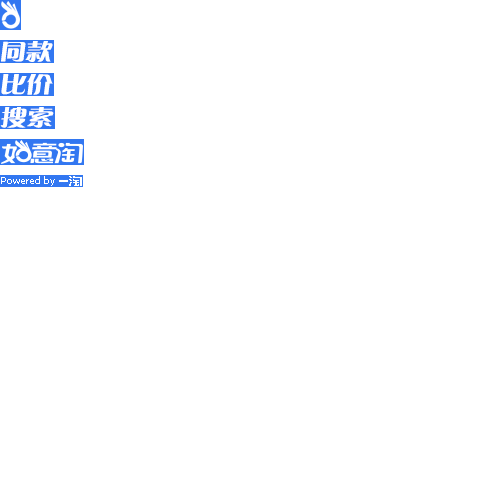
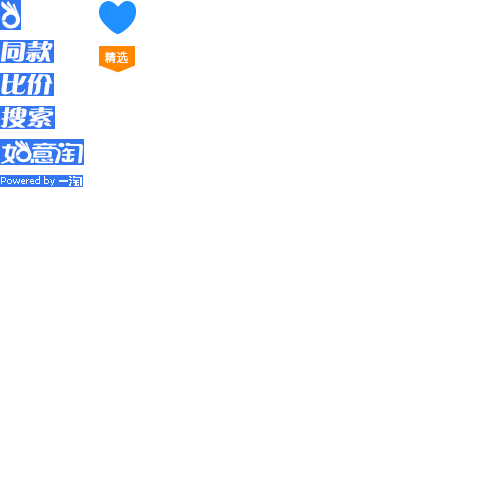
收藏

Changed region(s): [[0.18, 0.0, 0.27, 0.15]]

diff --git a/ruyi/price.html b/ruyi/price.html
@@ -246,34 +246,6 @@
 		  /*-background: url(%chrome-extension%assets/images/products/more-8bit.png) no-repeat center center;*/
 		}
 
-		.ruyitao-selector-prefix-ivy-home-link {
-		  float: left;
-		  height: 100%;
-		  width: 110px;
-		  padding-top: 51px;
-		  color: #0c96df;
-		  font-size: 12px;
-		  text-align: center;
-		  background: url(%chrome-extension%assets/images/heart-blue.png) no-repeat center 19px;
-		  cursor: pointer;
-		}
-
-		.ruyitao-selector-prefix-ivy-home-link:hover {
-		  background-color: #f1f1f1 !important;
-		}
-
-		#ruyitao-selector-prefix-ivy-home-link {
-		  padding-top: 0;
-		  background: none;
-		}
-
-		#ruyitao-selector-prefix-ivy-home-link span {
-		  width: 100%;
-		  height: 100%;
-		  display: inline-block;
-		  background: url(%chrome-extension%assets/images/heart-blue.png) no-repeat center center;
-		}
-
 		#ruyitao-selector-prefix-more-results-link:hover, .ruyitao-selector-prefix-more-results-link-hl {
 		  background: #f4f4f4;
 		  background: -webkit-linear-gradient(top, #f4f4f4, #ebebeb);
@@ -828,10 +800,6 @@
 		  text-decoration: underline;
 		}
 		
-		
-		
-		
-		
 		/*wrapper*/
 		#ruyitao-selector-prefix-price-comparation-wrapper {
 		  height: 85px;
@@ -850,8 +818,8 @@
 		  background: -moz-linear-gradient(top, #fdfdfd, #fcfcfc);
 		  background: linear-gradient(180deg, #fdfdfd, #fcfcfc);
 		  height: 100%;
-		  -overflow: hidden; /*Fix for IE6*/
-		  _float: left;
+		  float: left;
+		  _overflow: hidden;
 		}
 
 		/*logo*/
@@ -910,7 +878,7 @@
 		/*logo end*/
 		
 		
-		/*列表*/
+		/* list */
 		#ruyitao-selector-prefix-market-list {
 		  float: left;
 		  overflow: hidden;
@@ -936,33 +904,30 @@
 		  *background: #f4f4f4;
 		}
 		
-		/*收藏链接*/
+		/* list end */
+		
 		.ruyitao-selector-prefix-ivy-home-link {
 		  float: left;
-		  height: 100%;
+		  height: 65px;
+		  padding-top:20px;
 		  width: 110px;
-		  padding-top: 51px;
-		  color: #0c96df;
+		  color: #1e91ff;
 		  font-size: 12px;
 		  text-align: center;
-		  background: url(%chrome-extension%assets/images/heart-blue.png) no-repeat center 19px;
 		  cursor: pointer;
+		  background-color:#fff;
 		}
 
 		.ruyitao-selector-prefix-ivy-home-link:hover {
 		  background-color: #f1f1f1 !important;
-		}
-
-		#ruyitao-selector-prefix-ivy-home-link {
-		  padding-top: 0;
-		  background: none;
-		}
-
-		#ruyitao-selector-prefix-ivy-home-link span {
-		  width: 100%;
-		  height: 100%;
+		}	
+		#ruyitao-selector-prefix-ivy-home-link i {
+		  width: 38px;
+		  height: 33px;
 		  display: inline-block;
-		  background: url(%chrome-extension%assets/images/heart-blue.png) no-repeat center center;
+		  _display:inline;
+		  _float:left;
+		  background-position: -98px -1px;
 		}
 		
 		/*关闭*/
@@ -989,9 +954,15 @@
 					</span>
 				</div>
 			</div>
-			<ul id="ruyitao-selector-prefix-market-list"></ul>
-			<div id="ruyitao-selector-prefix-ivy-home-link" class="ruyitao-selector-prefix-ivy-home-link" title="如意淘的心愿单"><span></span></div>
-			<div id="ruyitao-selector-prefix-price-comparation-close-btn" class="ruyitao-selector-prefix-close-btn" title="关闭"></div>
+			<ul id="ruyitao-selector-prefix-market-list">
+				<li></li>
+			</ul>
+			<div id="ruyitao-selector-prefix-ivy-home-link" class="ruyitao-selector-prefix-ivy-home-link" title="如意淘的心愿单">
+				<i class="ruyitao-selector-prefix-pricebar-icon"></i><br>
+				我的收藏<span>100</span>
+			</div>
+			<div id="ruyitao-selector-prefix-price-comparation-close-btn" class="ruyitao-selector-prefix-close-btn" title="关闭">
+			</div>
 		</div>
 		
 		
